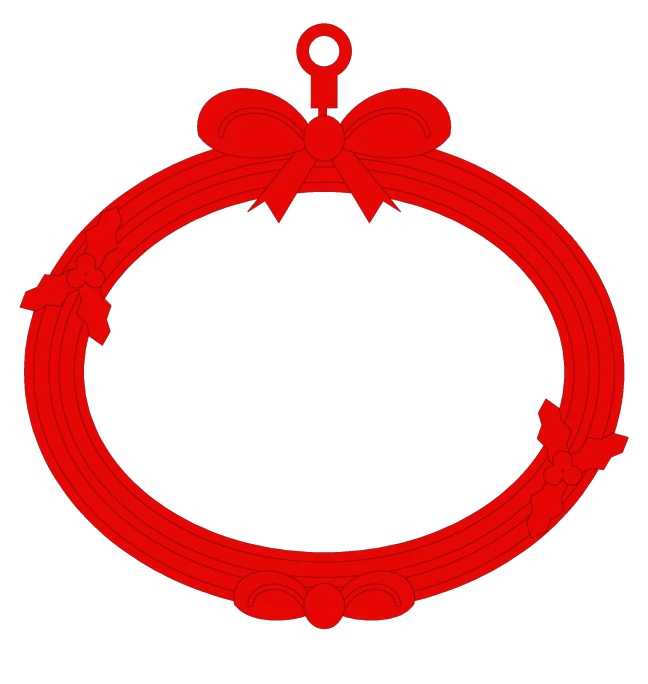
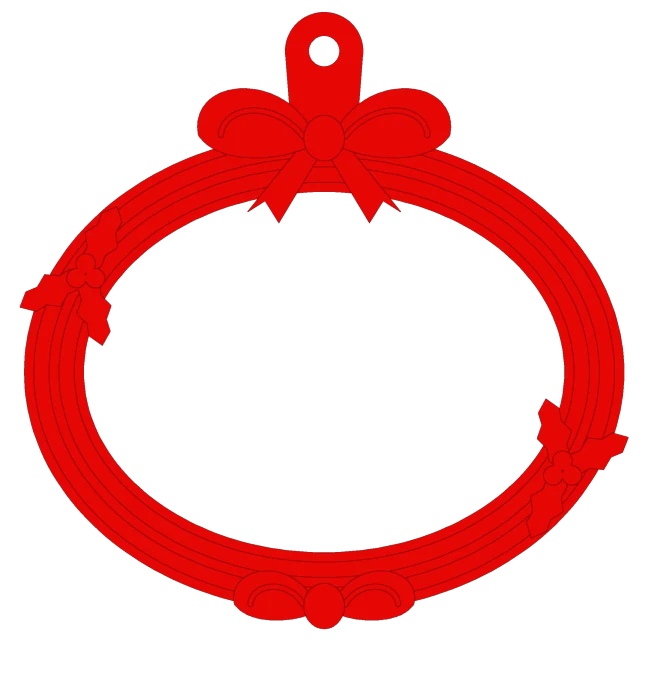
Bow ornament: stronger hanger tab in the website preview (matches the new .3mf)
Claude-Session: https://claude.ai/code/session_01TFBsFtRpH3ErhPVW96wF4e

Changed region(s): [[0.4321, 0.0, 0.5864, 0.1842]]

diff --git a/art.js b/art.js
@@ -335,7 +335,7 @@
   ART['bow-ornament'] = function (o) {
     var nm = plainName(o.text || 'Maria'), F = nameFit(nm, 'LoraBI3DB', 16, 68, 0.8), yb = 5.7, l = -F.half, r = F.half;   // svg y = -mm
     var sw = 'M-41 ' + (yb + 9) + 'C-34 ' + (yb + 4) + ' ' + (l - 8).toFixed(2) + ' ' + yb + ' ' + l.toFixed(2) + ' ' + yb + 'L' + r.toFixed(2) + ' ' + yb + 'C' + (r + 9).toFixed(2) + ' ' + yb + ' 34 ' + (yb - 2) + ' 41 ' + (yb - 8);
-    return '<svg viewBox="-55 -63 110 116" class="orn" role="img" aria-label="Bow name ornament">' + whiteWrap(o, '<image href="img/bow-ornament.webp?v=95040001" x="-54" y="-62" width="108" height="114"/>' +
+    return '<svg viewBox="-55 -63 110 116" class="orn" role="img" aria-label="Bow name ornament">' + whiteWrap(o, '<image href="img/bow-ornament.webp?v=95120153" x="-54" y="-62" width="108" height="114"/>' +
       '<path d="' + sw + '" fill="none" stroke="#E60705" stroke-width="2.6" stroke-linecap="round" stroke-linejoin="round"/>' + nameText(nm, 'LoraBI3DB, Lora, Georgia, serif', F, -5, '#E60705')) + '</svg>';
   };
   function nameRefit() { NFIT = {}; if (g.document) { var e = document.querySelectorAll('svg .nmorn'); if (e.length && g.dispatchEvent) try { g.dispatchEvent(new Event('blazeart:fonts')); } catch (x) {} } }

diff --git a/studio-0bc83dc5.html b/studio-0bc83dc5.html
@@ -412,9 +412,9 @@ footer a:hover{color:var(--text)}
 
 <div class="toast" id="toast" role="status" aria-live="polite"></div>
 <script>window.BLAZE_ADMIN = true;</script>
-<script src="firebase-config.js?v=94490217"></script>
-<script src="art.js?v=94490217"></script>
-<script src="w3d.js?v=94490217"></script>
-<script src="app.js?v=94490217"></script>
+<script src="firebase-config.js?v=95120153"></script>
+<script src="art.js?v=95120153"></script>
+<script src="w3d.js?v=95120153"></script>
+<script src="app.js?v=95120153"></script>
 </body>
 </html>

diff --git a/index.html b/index.html
@@ -613,9 +613,9 @@ footer{background:#fff}
   </div>
 </footer>
 <div class="toast" id="toast" role="status" aria-live="polite"></div>
-<script src="firebase-config.js?v=94490217"></script>
-<script src="art.js?v=94490217"></script>
-<script src="w3d.js?v=94490217"></script>
-<script src="app.js?v=94490217"></script>
+<script src="firebase-config.js?v=95120153"></script>
+<script src="art.js?v=95120153"></script>
+<script src="w3d.js?v=95120153"></script>
+<script src="app.js?v=95120153"></script>
 </body>
 </html>
